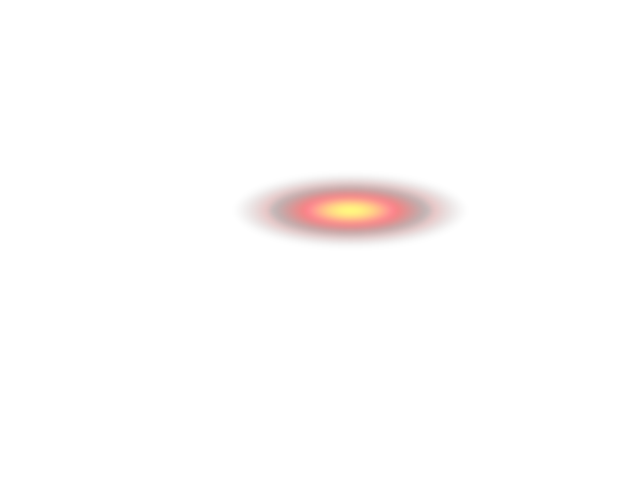
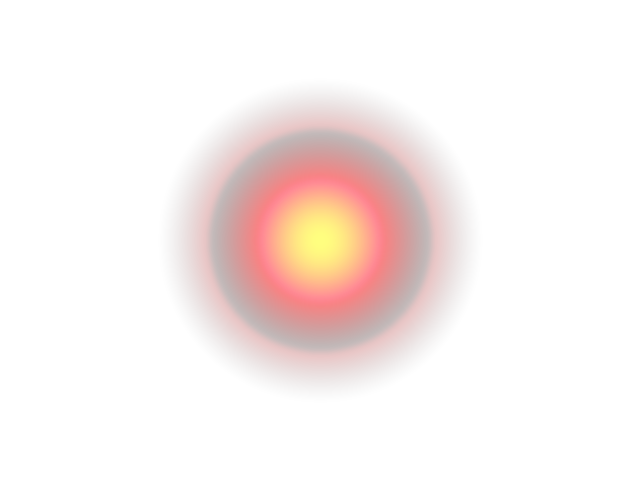
fix: show full finding description (remove line-clamp-2)

Changed region(s): [[0.2812, 0.1875, 0.7188, 0.8125]]

diff --git a/frontend/src/components/review/ReviewWorkbench.tsx b/frontend/src/components/review/ReviewWorkbench.tsx
@@ -276,8 +276,8 @@ export function ReviewWorkbench() {
                     <ApproachBadge approach={f.approach as string} />
                   </div>
 
-                  {/* Row 3: Description (truncated) */}
-                  <p className="text-xs text-foreground/70 leading-relaxed line-clamp-2">
+                  {/* Row 3: Description */}
+                  <p className="text-xs text-foreground/70 leading-relaxed">
                     {f.description as string}
                   </p>
                 </button>
